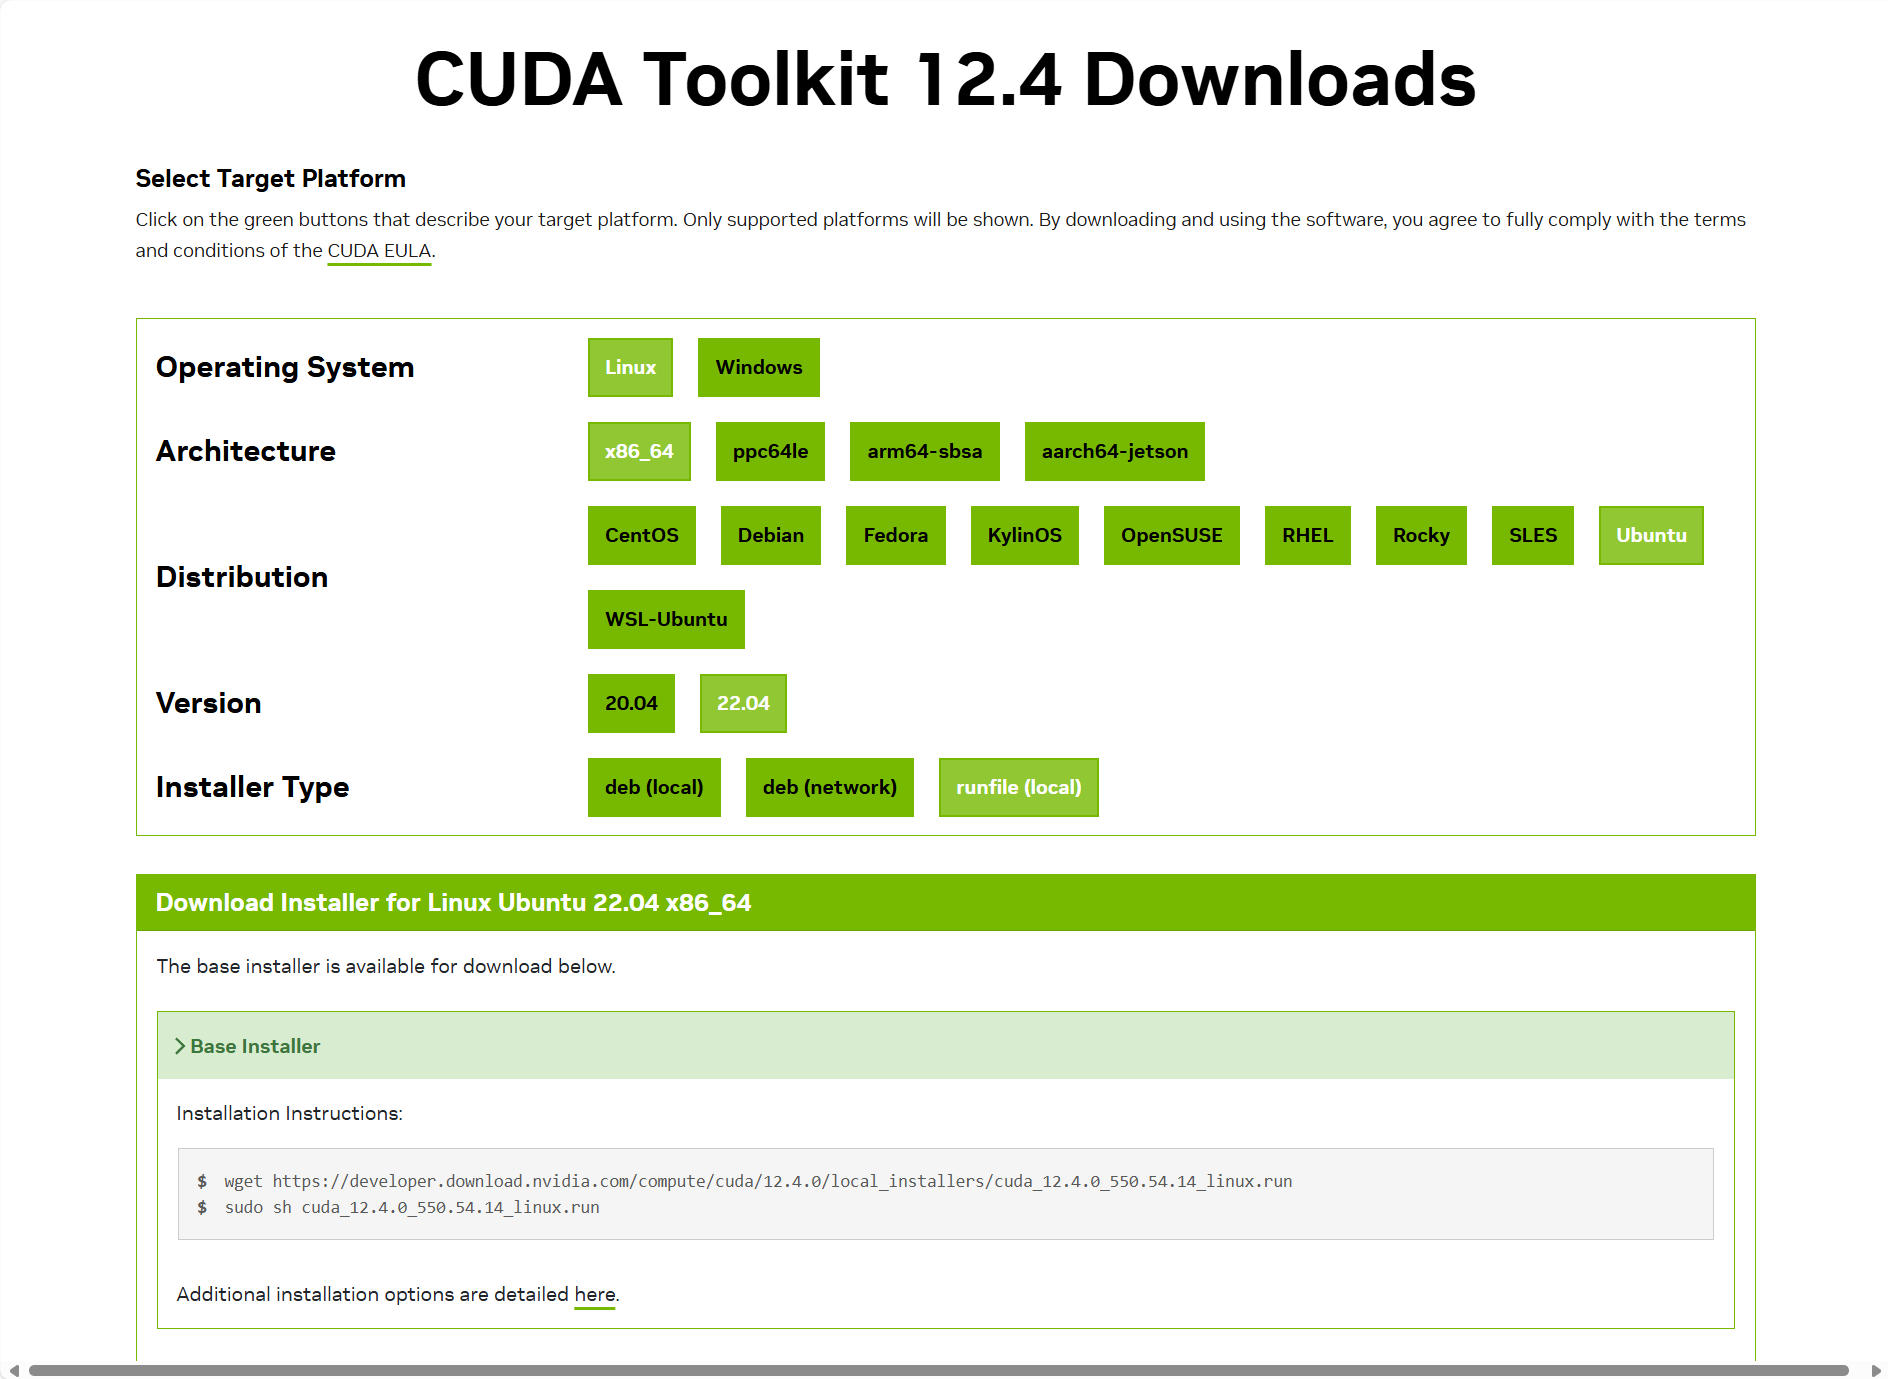
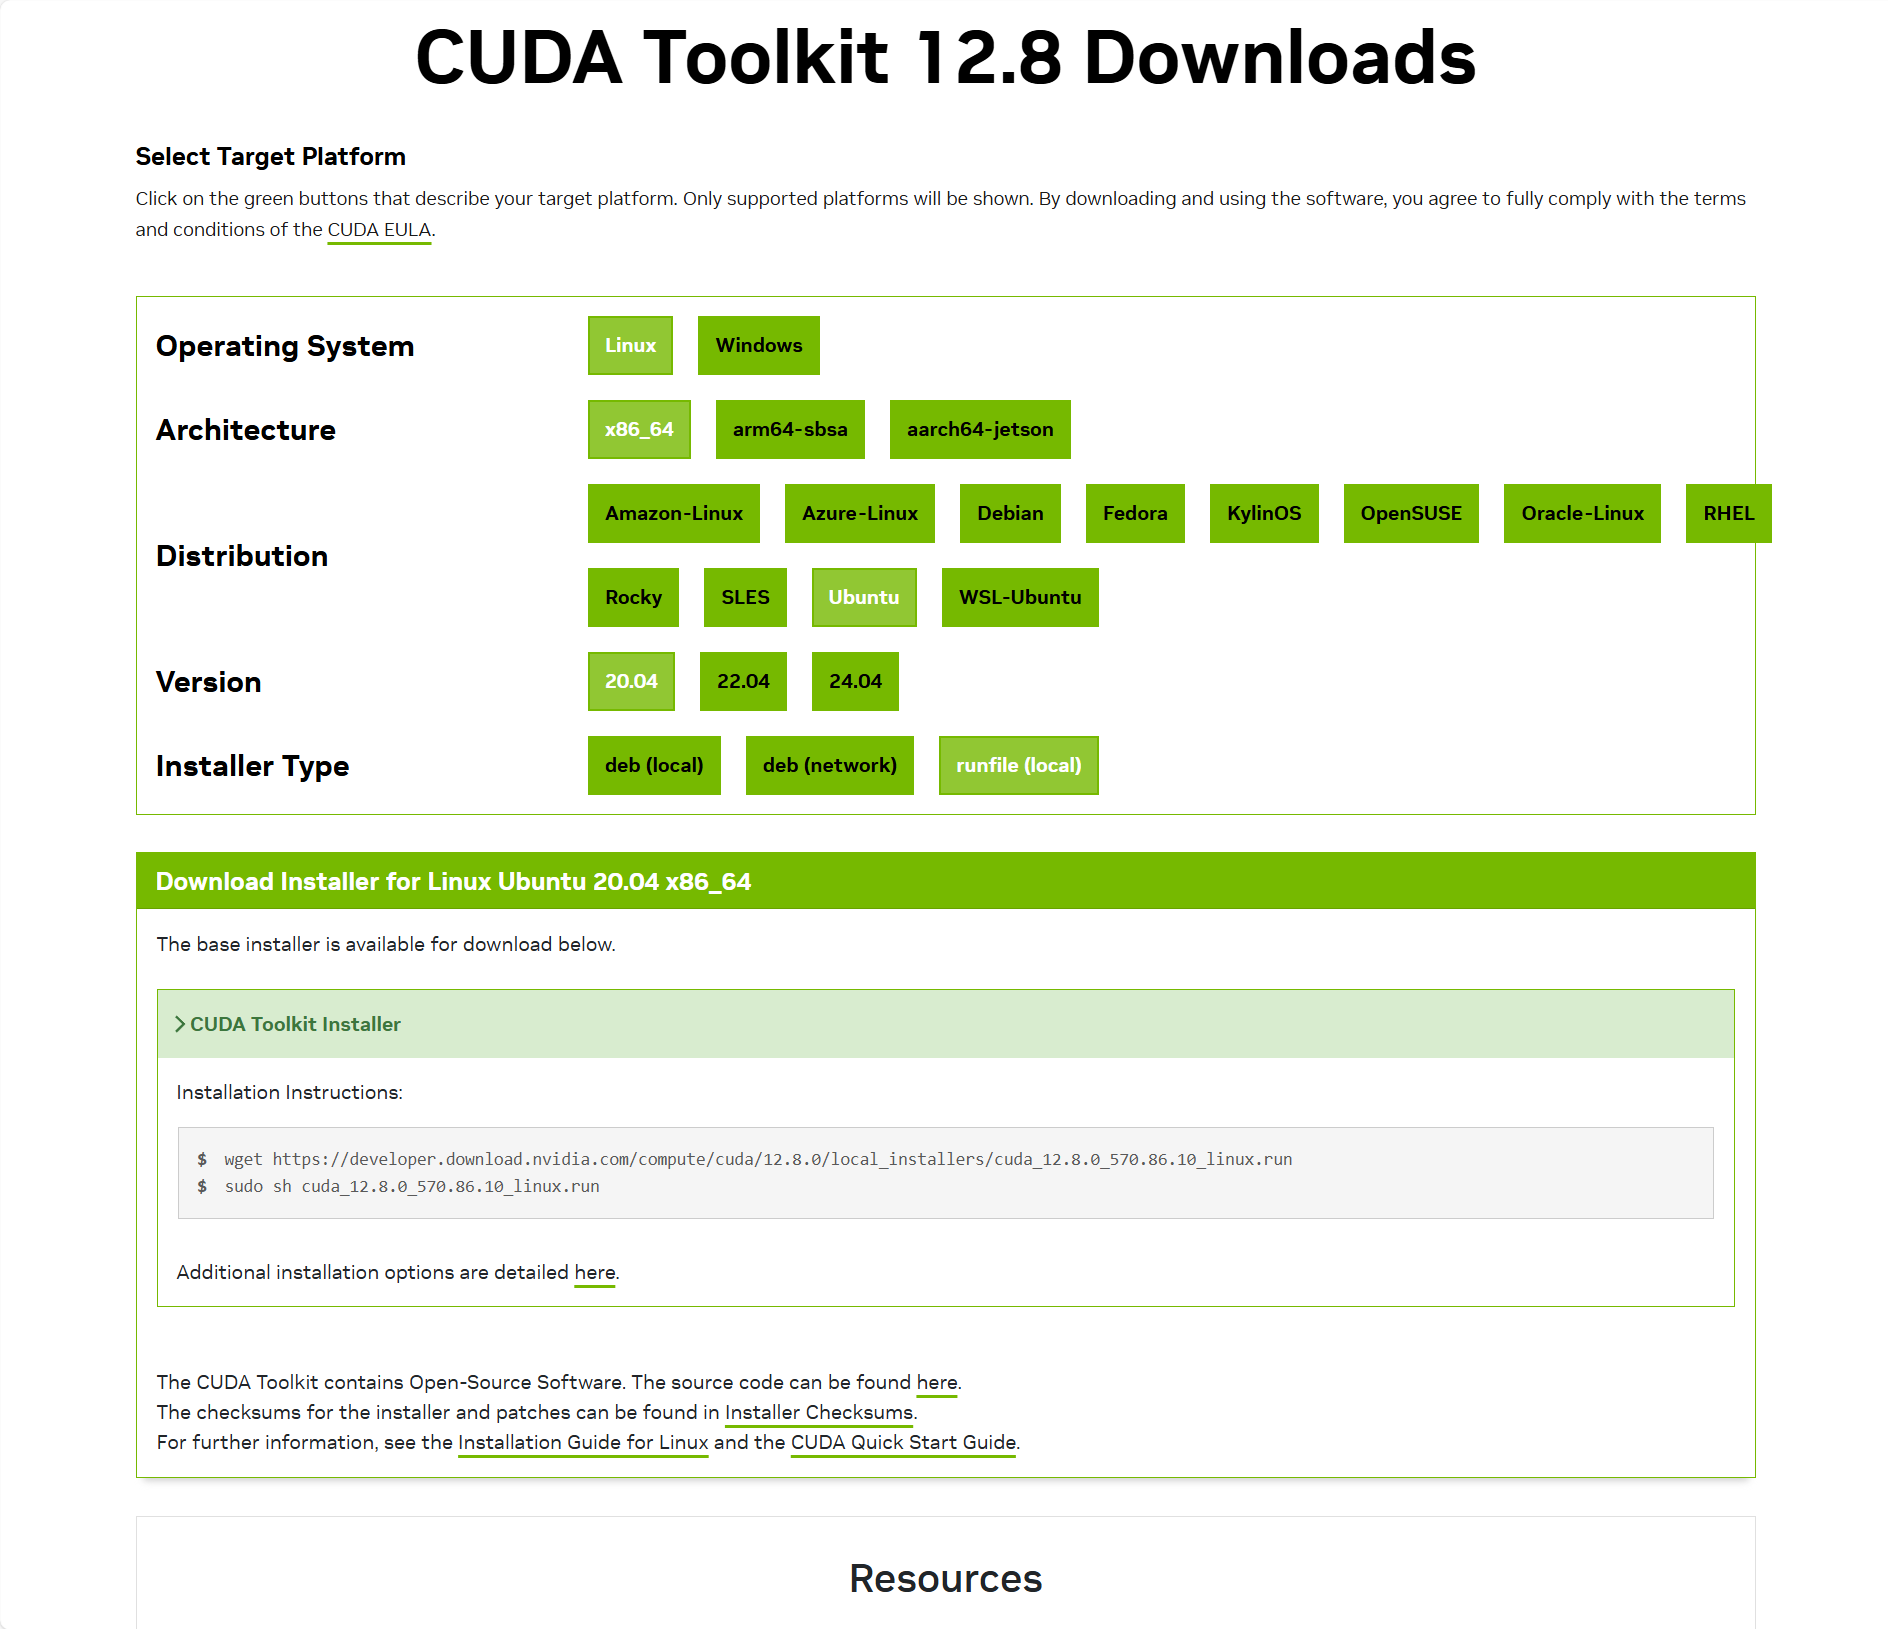
done

diff --git a/source/0001_模型部署/0006_vLLM/README.md b/source/0001_模型部署/0006_vLLM/README.md
@@ -81,18 +81,16 @@ sudo update-initramfs -u
 
 ![](images/2025-03-17_103616.png)
 
-![](images/2025-03-11_170509.png)
-
-![](images/2025-03-11_170652.png)
-
 ```bash
+sudo sh NVIDIA-Linux-x86_64-570.124.04.run
+apt install -y cuda-drivers
 reboot
 conda activate vLLM
 nvcc --version ## check the cuda version
 nvidia-smi
 ```
 
-![](images/2025-03-11_171500.png)
+![](images/2025-03-17_100910.png)
 
 [CUDA Toolkit Archive | NVIDIA Developer](https://developer.nvidia.com/cuda-toolkit-archive)
 
@@ -100,7 +98,10 @@ nvidia-smi
 
 ![](images/2025-03-11_172002.png)
 
-![](images/2025-03-11_172431.png)
+```bash
+wget https://developer.download.nvidia.com/compute/cuda/12.8.0/local_installers/cuda_12.8.0_570.86.10_linux.run
+sudo sh cuda_12.8.0_570.86.10_linux.run
+```
 
 ```
 vim /root/.bashrc
@@ -110,11 +111,9 @@ export PATH=$PATH:/usr/local/cuda-12.4/bin
 export CUDA_HOME=$CUDA_HOME:/usr/local/cuda-12.4
 
 source /root/.bashrc
+
+nvcc --version
 ```
-
-![](images/2025-03-11_172906.png)
-
-![](images/2025-03-11_173321.png)
 
 [download.pytorch.org/whl/torch/](https://download.pytorch.org/whl/torch/)
 
